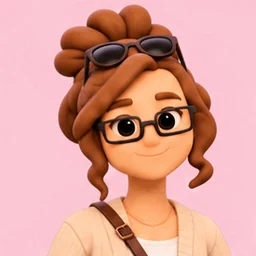
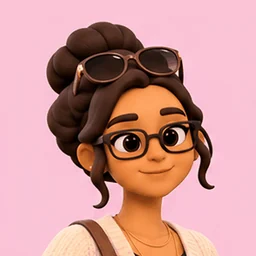
Kiru colour redo: travel idle/wave/travel; all 44 Kiru animations in kiru-v2 colours
Claude-Session: https://claude.ai/code/session_01M9MLSzTgGmRpDx4quWz9qx

diff --git a/design/gen/status.md b/design/gen/status.md
@@ -163,9 +163,9 @@ Generated in ChatGPT, checked frame by frame, converted to 256x256 animated WebP
 | kiru/rain/idle | done | 1 | colour redo Nov 19 (sprite sheet, kiru-v2 colours): pink hooded raincoat with the hood DOWN (old version had it up); aligned to frame 0 (sheet drifted up to 10 px); blink frames 5-8 |
 | kiru/rain/wave | done | 1 | colour redo Nov 19 (sprite sheet, kiru-v2 colours): pink raincoat, hood down (matches the new rain/idle); same hand waves on the left; white motion lines frames 4-6; two blinks |
 | kiru/rain/walk | done | 1 | colour redo Nov 19 (sprite sheet, kiru-v2 colours): ONE pink umbrella in the same hand in every frame, raindrops; hood down; the top ~20 px is padded flat pink (no raindrops there) |
-| kiru/travel/idle | done | 0 | Kiru v2 look; hair a bit more auburn and the bun less defined under the sunglasses |
-| kiru/travel/wave | done | 0 | Kiru v2 look; hair a bit more auburn (matches travel/idle) |
-| kiru/travel/travel | done | 0 | Kiru v2 look; ONE suitcase handle, same hand; walking bob up to 8 px re-aligned; loop seam (frame 15 to 0) a bit stronger than other steps, softened by the 2.5 s end pause |
+| kiru/travel/idle | done | 1 | colour redo Nov 19 (sprite sheet, kiru-v2 colours): cream cardigan, crossbody bag strap, sunglasses pushed up on the bun; aligned to frame 0 (sheet drifted up to 6 px sideways); blink frames 5-9 |
+| kiru/travel/wave | done | 1 | colour redo Nov 19 (sprite sheet, kiru-v2 colours): sunglasses on the bun, bag strap; same hand waves on the left (motion blur frames 5-6); white motion lines frames 4-6; two blinks |
+| kiru/travel/travel | done | 1 | colour redo Nov 19 (sprite sheet, kiru-v2 colours): ONE suitcase handle in the same hand at the bottom right in every frame; gentle walking bob (up to 3 px); sunglasses on the bun |
 | group/hello | done | 3 | redone with Kiru v2 look; 2 versions rejected (ghost second glass in one frame; glass switching hands + figures cut off); final: Kiru holds ONE glass in the same hand in all 16 frames (checked frame by frame) |
 | group/hug | done | 0 | home outfits |
 | group/welcome-dushy | done | 0 | Dushy steps in from the left edge (suitcase cut at the edge in first frames); Kiru's trousers came out olive instead of black |
@@ -186,7 +186,7 @@ Reference measurements (tools: /tmp/tools/colour.py; median Lab over sampled fra
 - drifted kiru/work/idle (old): skin RGB(251,188,135) Lab(80.9,16.3,35.6); hair RGB(158,80,38) Lab(43.0,29.6,38.5)
 - Pass rule: dE2000 vs kiru-v2.png skin <= 9.0 and hair <= 9.5 (calibrated: all 10 kiru/out/* pass, max skin 8.9 / hair 9.4 on out/pack; all 43 old drifted files fail, mildest home/cook hair 10.0, work/type skin 9.2). Margins are thin for the mildest drifted files, so the frame-by-frame review is still required.
 - Method change: ChatGPT now asked for a 4x4 sprite sheet (16 real redrawn frames) with kiru-v2.png pasted in every prompt plus an explicit colour line; sheets kept in design/gen/sheets-colour/, sliced with /tmp/tools/sheet2gif.py (gutter cut, phase-correlation alignment to frame 0, bg padding above the bun). Old GIFs kept as design/gen/kiru/<outfit>-<pose>-oldcolour.gif.
-- STOPPED Nov 19 ~13:20 MYT: Mac bridge disconnected (stage failed, one retry failed). Resume at kiru/party/idle: its sheet is already on the Mac at design/gen/sheets-colour/kiru-party-idle.png (not yet sliced); kiru/party/wave was sent to ChatGPT just before the drop (check the chat / ~/Downloads for enga-sheet-kiru-party-wave.png). gym-workout.gif is converted and pushed, but its GIF (outputs/gen/kiru/gym-workout.gif in the container) was not yet copied to the Mac. On the Mac all 44 old Kiru GIFs were already renamed to *-oldcolour.gif, so the 9 pending Kiru items have no <outfit>-<pose>.gif there yet.
+- Nov 19: run paused ~13:20 MYT by a Mac bridge drop, resumed and finished at ~14:00 MYT. All 44 Kiru files redone. dushy/out/idle deliberately skipped (waiting for the user to choose which Dushy look is correct: out/idle, out/wave and out/laugh share a darker full-beard look; the rest of the Dushy set is lighter with a shorter beard).
 
 | item | state | skin dE | hair dE | note |
 |---|---|---|---|---|
@@ -220,9 +220,9 @@ Reference measurements (tools: /tmp/tools/colour.py; median Lab over sampled fra
 | kiru/rain/idle | done | 3.8 | 1.3 | pink hooded raincoat with the hood DOWN (old version had it up); aligned to frame 0 (sheet drifted up to 10 px); blink frames 5-8 |
 | kiru/rain/walk | done | 2.4 | 3.8 | ONE pink umbrella in the same hand in every frame, raindrops; hood down; the top ~20 px is padded flat pink (no raindrops there) |
 | kiru/rain/wave | done | 4.0 | 4.4 | pink raincoat, hood down (matches the new rain/idle); same hand waves on the left; white motion lines frames 4-6; two blinks |
-| kiru/travel/idle | pending |  |  | old: skin dE 12.0 hair dE 18.8 |
-| kiru/travel/travel | pending |  |  | old: skin dE 14.2 hair dE 21.3 |
-| kiru/travel/wave | pending |  |  | old: skin dE 12.3 hair dE 19.5 |
+| kiru/travel/idle | done | 2.5 | 1.1 | cream cardigan, crossbody bag strap, sunglasses pushed up on the bun; aligned to frame 0 (sheet drifted up to 6 px sideways); blink frames 5-9 |
+| kiru/travel/travel | done | 3.5 | 1.2 | ONE suitcase handle in the same hand at the bottom right in every frame; gentle walking bob (up to 3 px); sunglasses on the bun |
+| kiru/travel/wave | done | 3.8 | 1.5 | sunglasses on the bun, bag strap; same hand waves on the left (motion blur frames 5-6); white motion lines frames 4-6; two blinks |
 | kiru/work/coffee | done | 2.5 | 2.4 | ONE cream mug in the same hand in every frame (frames 2-10); sip with eyes closed; head bob up to 9 px |
 | kiru/work/idle | done | 2.2 | 0.8 | sprite-sheet render; aligned to frame 0; blink frames 5-9 |
 | kiru/work/laugh | done | 2.9 | 1.0 | laugh: leans in toward the camera and tilts back (figure up to 12 px higher and ~10% larger in frames 6-9, sheet as drawn, not aligned) |
@@ -234,7 +234,7 @@ Reference measurements (tools: /tmp/tools/colour.py; median Lab over sampled fra
 | kiru/work3/coffee | done | 5.4 | 3.6 | ONE cream mug, same hand (frames 2-10); frames 8-15 sat 4-7 px lower on the sheet, aligned to frame 0 |
 | kiru/work3/idle | done | 3.5 | 2.0 | blink frames 4-9; stable framing |
 | kiru/work3/wave | done | 4.1 | 2.1 | same hand waves at the left edge (partly cut in frames 6-9); one blink |
-| dushy/out/idle | pending |  |  | old render: different face / darker than the rest of the Dushy set |
+| dushy/out/idle | skipped |  |  | skipped on request: user to choose the correct Dushy look first |
 
 ### Group scenes: Kiru colour check (listed, not redone)
 
